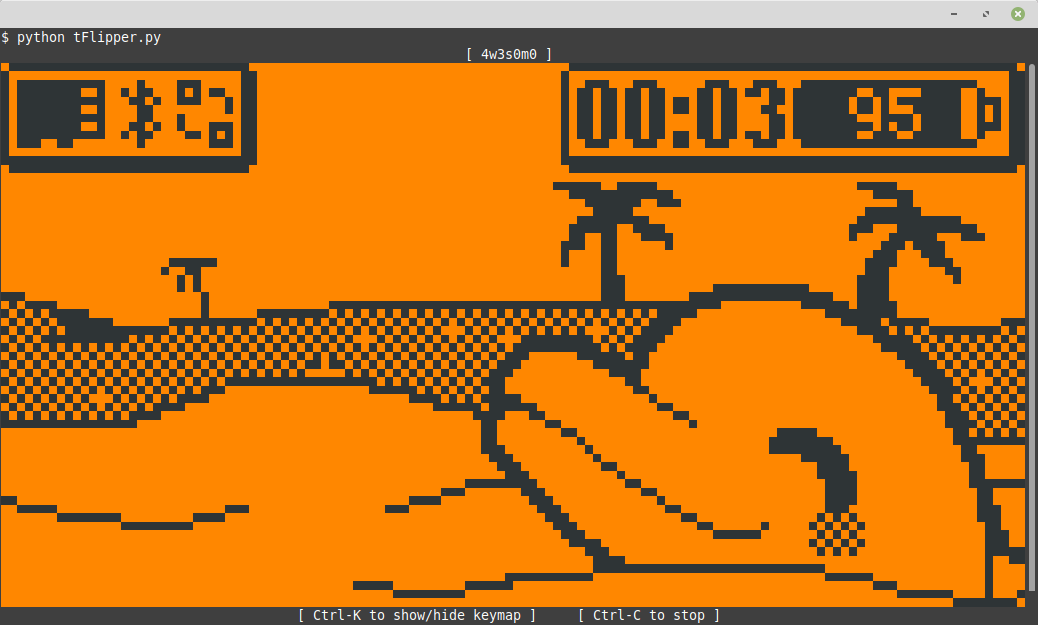
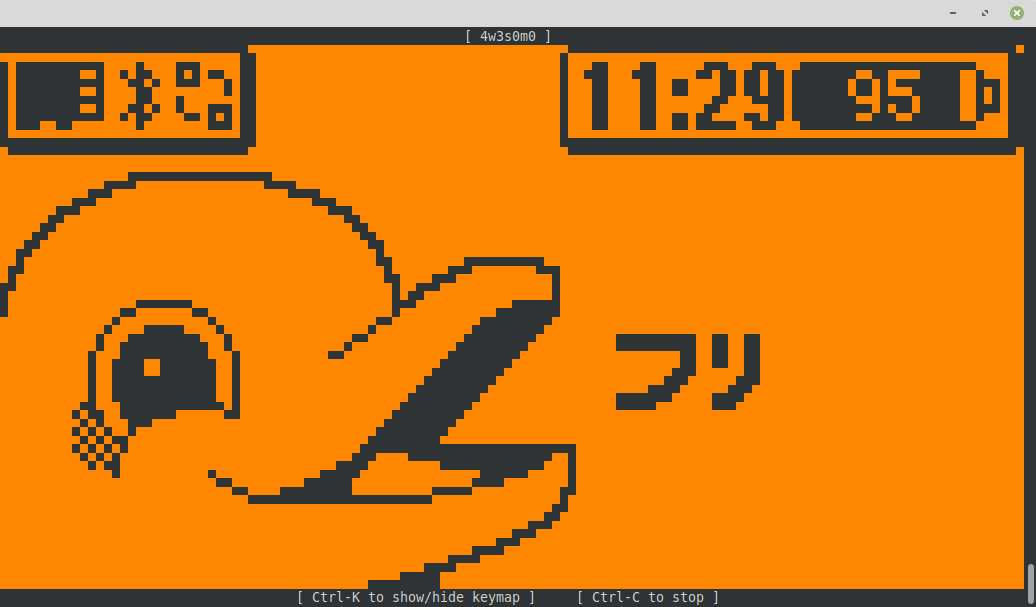
Updated the README and added a screenshot to describe the high-density semigraphics rendering option

Changed region(s): [[0.0, 0.0297, 1.0, 1.0], [0.556, 0.9786, 0.6795, 1.0], [0.9575, 0.0, 0.9884, 0.0297]]

diff --git a/README.md b/README.md
@@ -32,6 +32,9 @@ Hit `Ctrl-K` to see the keyboard-to-buttons mapping. To remain compatible with m
 
 ![Flipper Zero display in the console](screenshots/keyboard_mapping_help.png)
 
+If you invoke `python tFlipper.py -H`, the display will be rendered using high-density semigraphics: the entire display will then fit in a 80 x 24 console, at the cost of a slightly distorted image, because the aspect ratio cannot be respected:
+
+![Flipper Zero display in the console](screenshots/high_density_semigraphics_rendering.png)
 
 
 ## Installation
